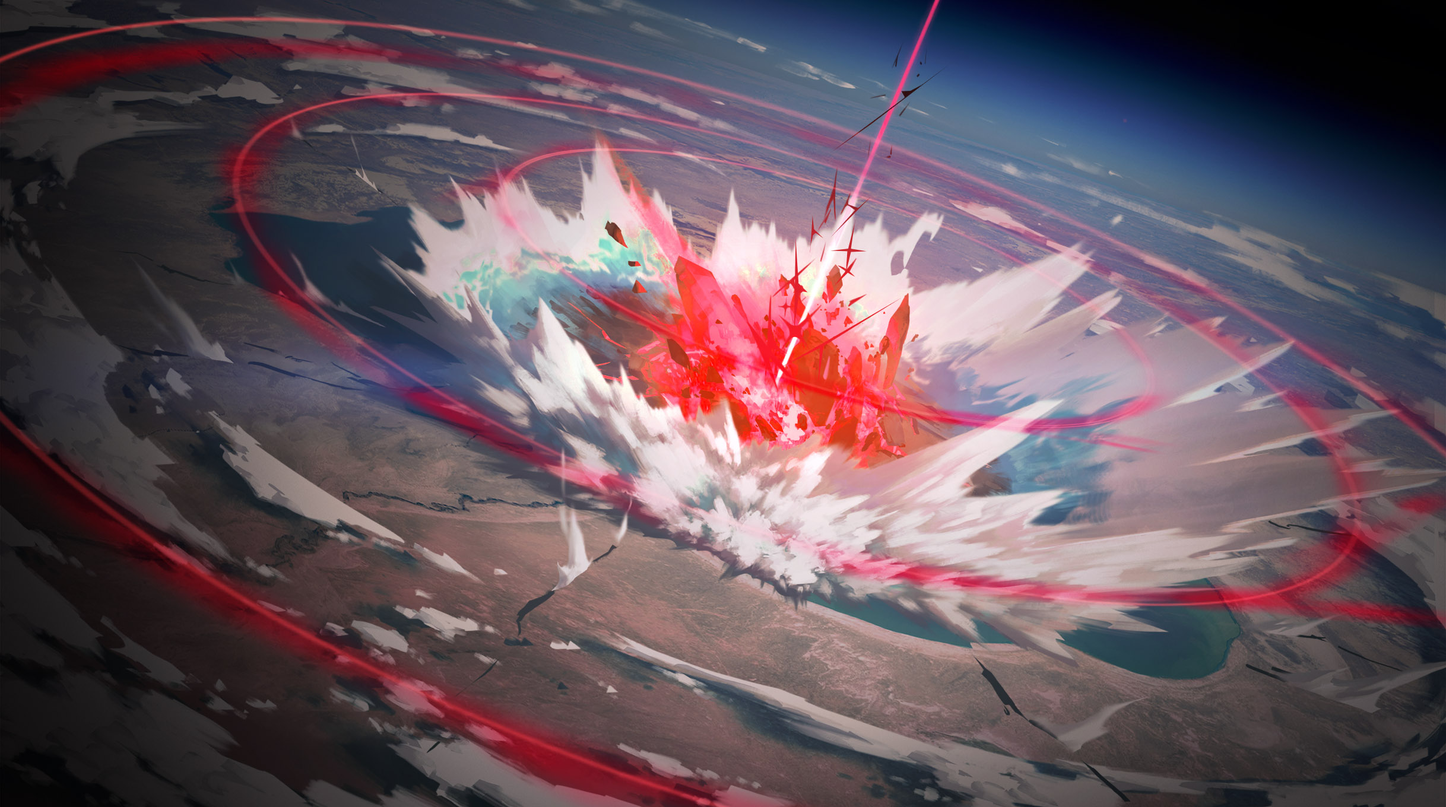
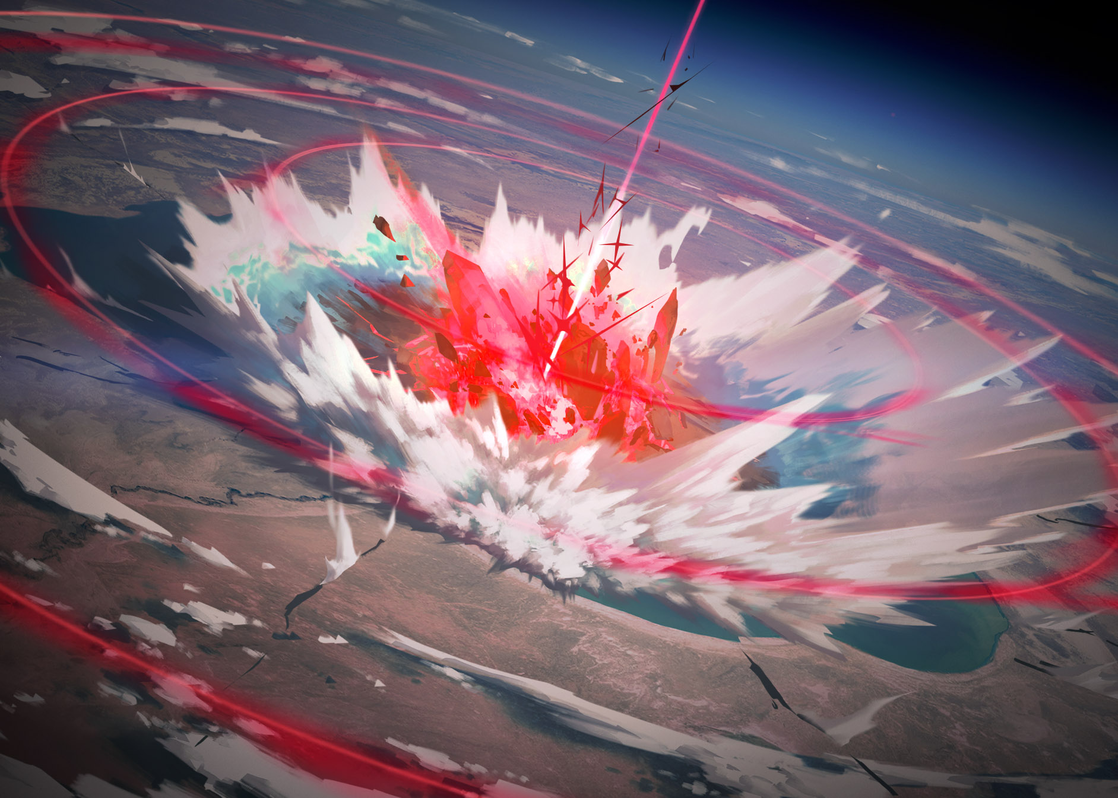
0122

diff --git a/home26/js/timeline0122.js b/home26/js/timeline0122.js
@@ -10,8 +10,9 @@ window.timelineMsg = [
   {
     type: "image",
     src: "./img/timeline/001212.jpg", 
-    span: 6 ,
+    span: 5 ,
     customRow: 4,
+    customWidth: 700 
 },
   {
     date: "N.F.21年",
@@ -251,7 +252,14 @@ function generateLayout(data) {
 
       if (item.type === 'image') {
           span = item.span || 5; 
-          widthFactor = span * 100;
+
+          if (item.customWidth) {
+            widthFactor = item.customWidth;
+        } else {
+            // 默认宽度算法，可能不准，所以导致 cover 裁切
+            widthFactor = span * 100; 
+        }
+
       } 
       else if (item.isMajor) {
           span = 5; 

diff --git a/home26/css/timeline0122.css b/home26/css/timeline0122.css
@@ -146,9 +146,12 @@ body {
 .event-item.is-image {
     padding: 0; border: none;
     background: transparent;    
+    overflow: hidden; 
 }
 .event-item.is-image img {
-    width: 100%; height: 100%; object-fit: cover; clip-path: inset(0 100% 0 0);
+    width: 100%; height: 100%; object-fit: cover; 
+    object-position: center center;
+    clip-path: inset(0 100% 0 0);
 }
 
 /* --- 5. 底部进度条 --- */
